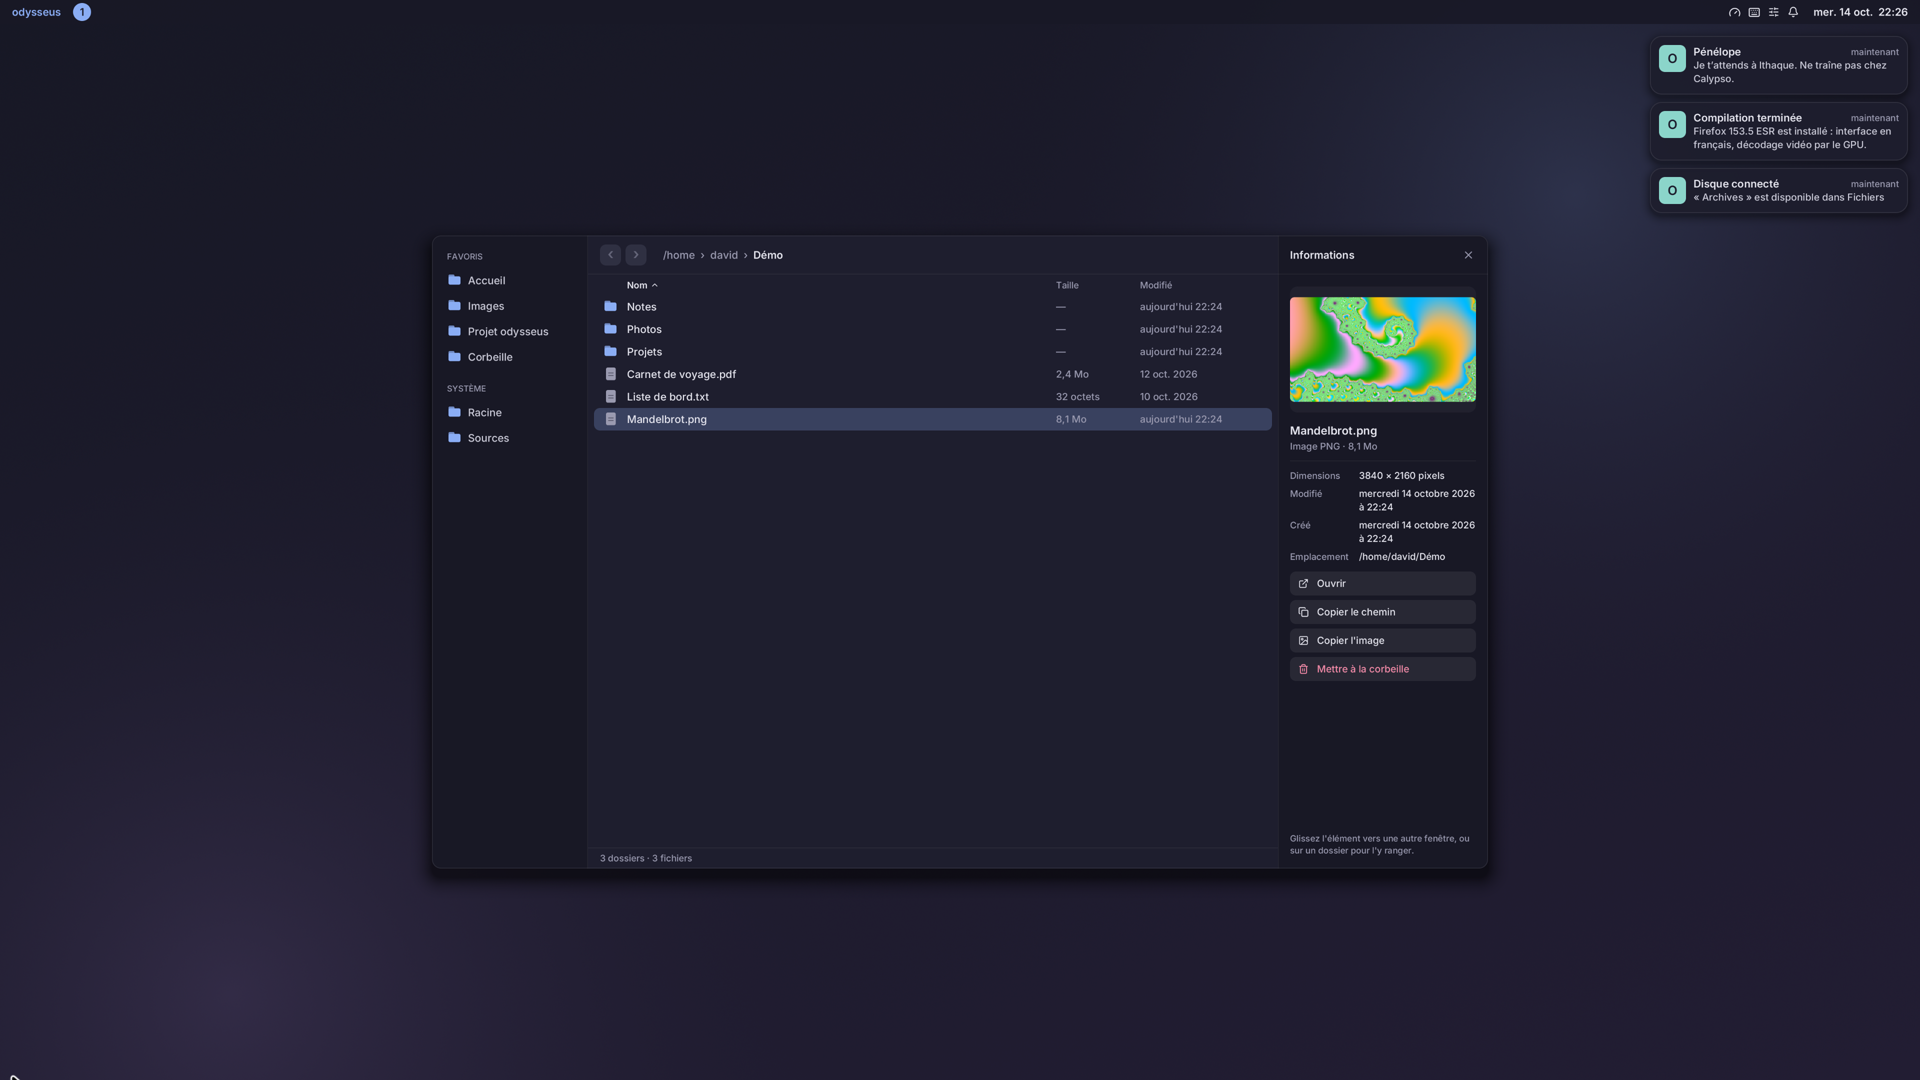
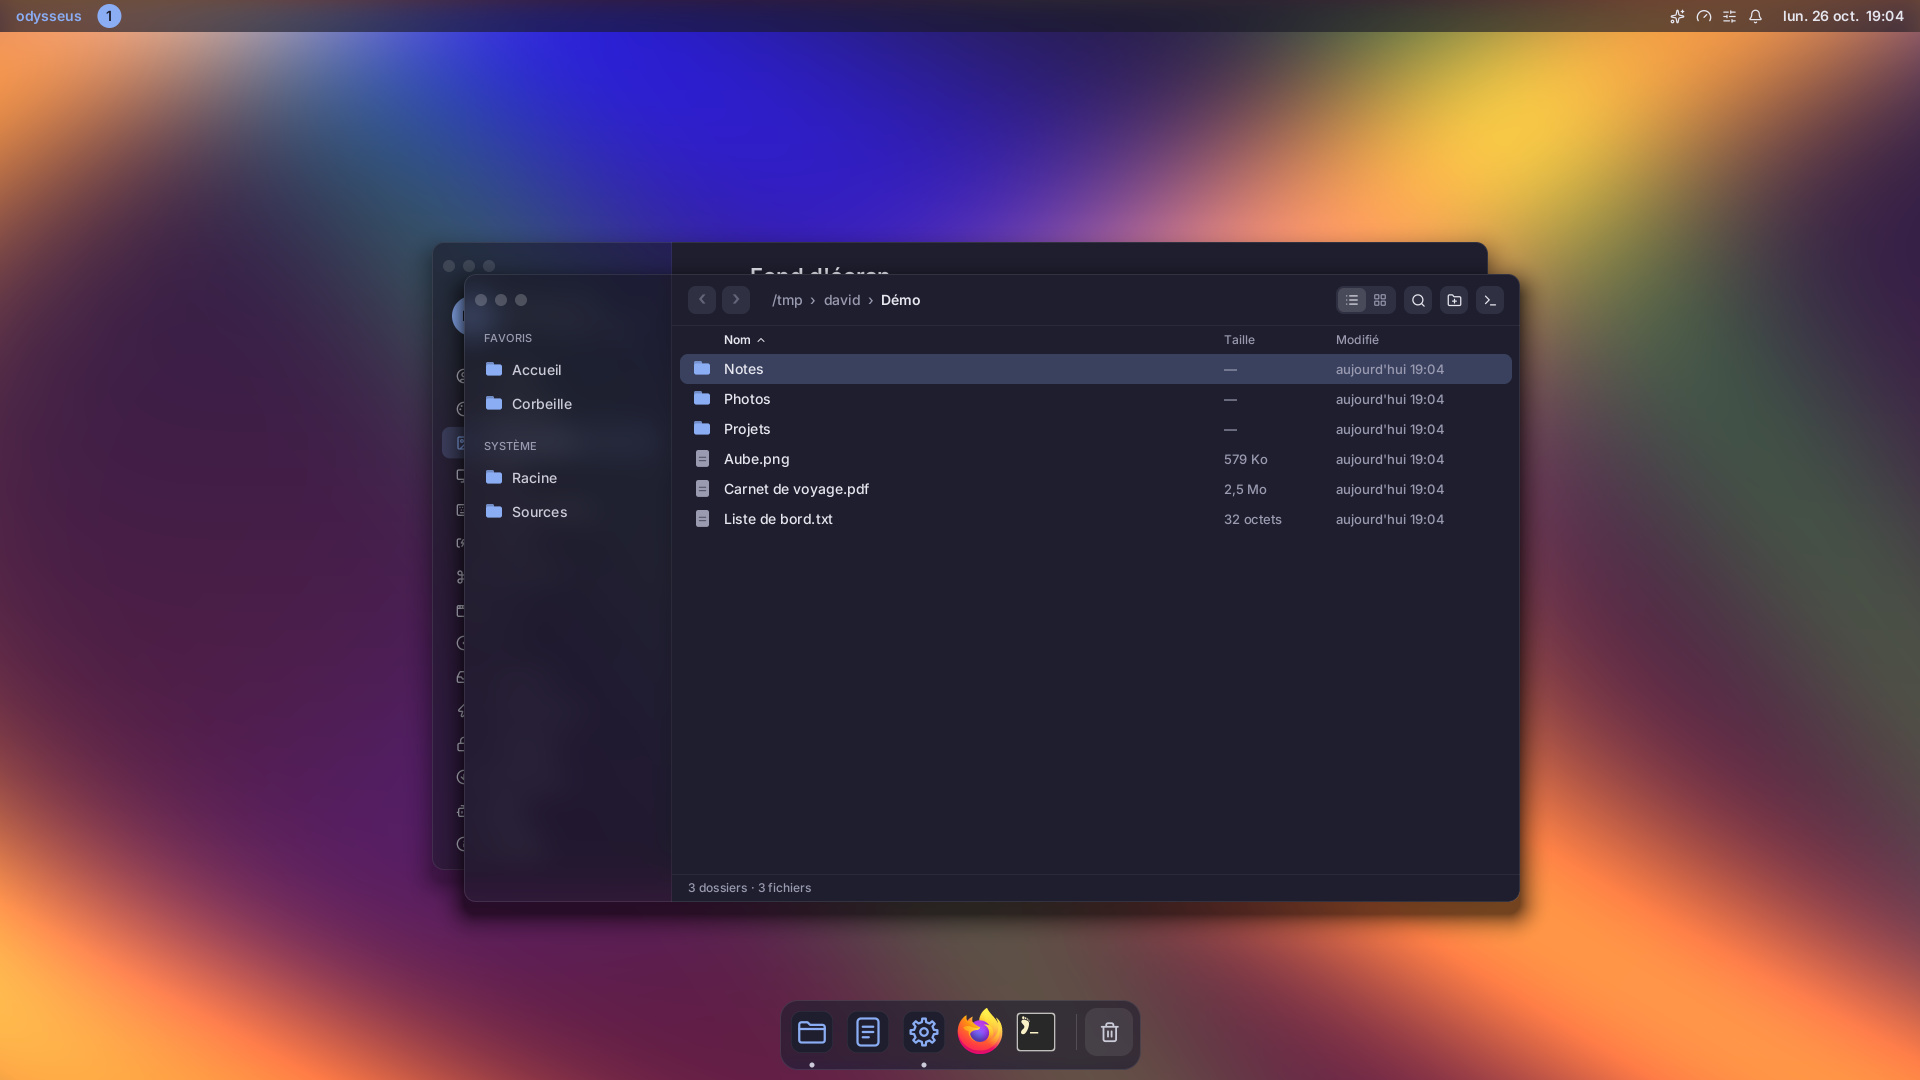
README : nouvelles captures (flou, roue, transparence)
Bureau et lanceur refaits sur le compositeur, flou compris ; captures de
la roue et de Réglages > Apparence > Transparence. Fond des captures :
vagues générées par ffmpeg (aucune image tierce).

Claude-Session: https://claude.ai/code/session_01MrKJ5RoiFoHm7qLZhYo5pA

diff --git a/README.md b/README.md
@@ -17,7 +17,7 @@ Bureau Wayland personnel en Rust : rapide, sobre.
 
 ## Aperçu
 
-![Bureau : Fichiers avec son panneau d'informations, notifications](docs/captures/bureau.png)
+![Bureau : Fichiers devant Réglages ; leurs barres latérales, la barre et le Dock laissent voir, flouté, ce qui est dessous](docs/captures/bureau.png)
 
 | Centre de contrôle | Centre de notifications |
 |---|---|
@@ -50,6 +50,10 @@ Bureau Wayland personnel en Rust : rapide, sobre.
 | Notes : dossiers, recherche sans accents, texte mis en forme (titres, gras, listes, cases à cocher), corbeille de 30 jours |
 |---|
 | ![Notes](docs/captures/notes.png) |
+
+| Roue (Super+R ou clic du milieu sur le bureau) : vos applis en cercle, sur le dessous flouté | Transparence (Réglages > Apparence) : flou façon macOS, de l'opaque au très transparent |
+|---|---|
+| ![Roue](docs/captures/roue.png) | ![Transparence](docs/captures/transparence.png) |
 
 | Réglages : fond d'écran, et six autres pages |
 |---|
